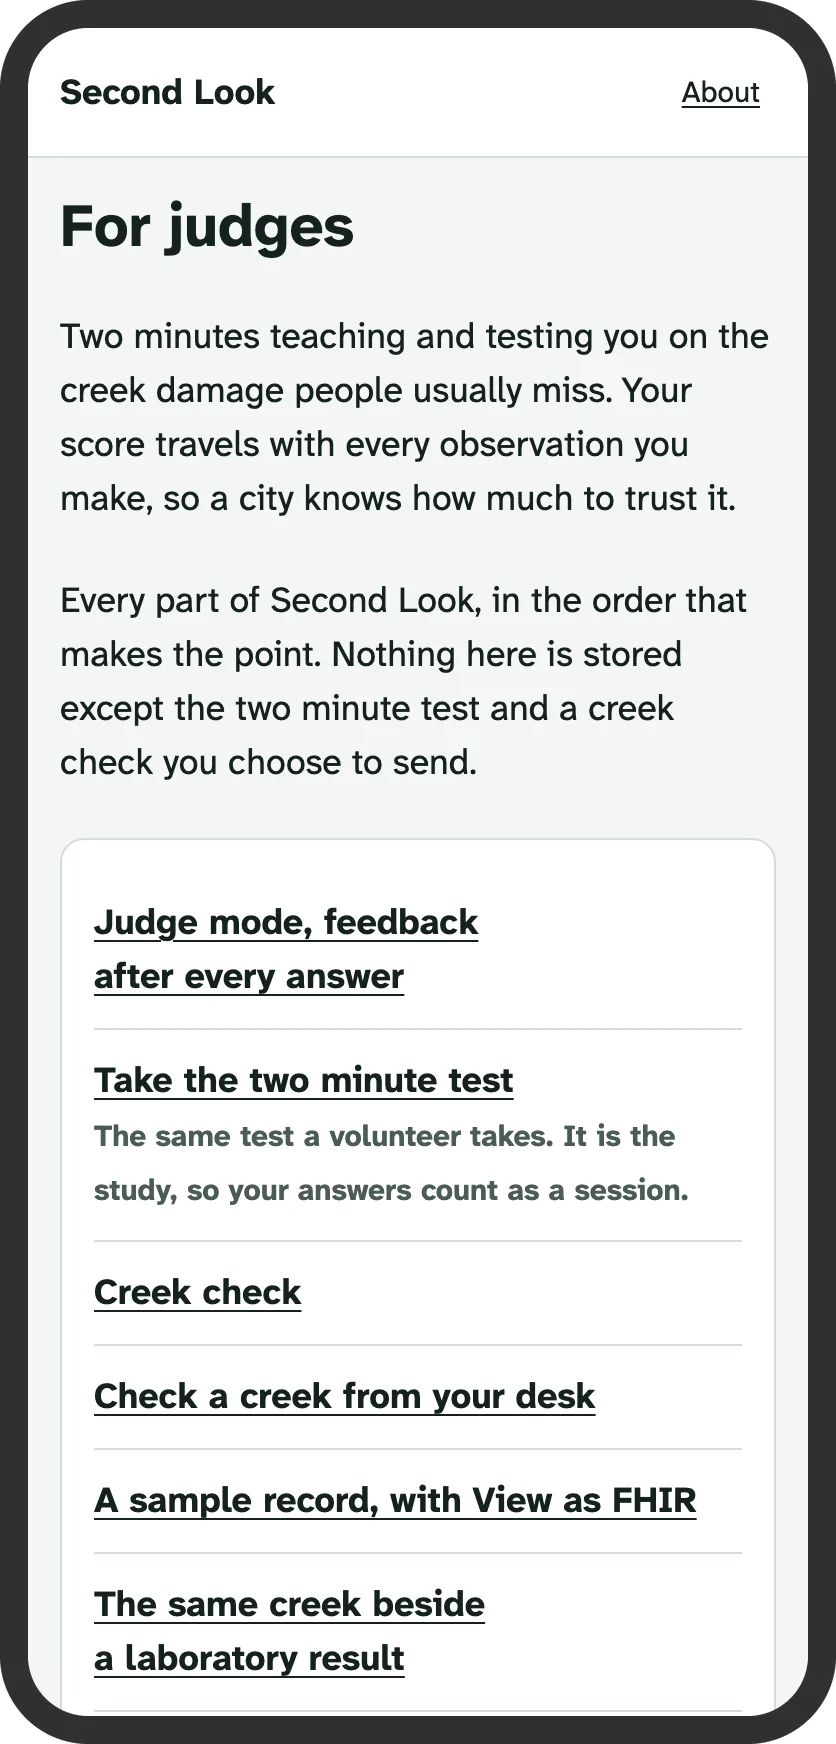
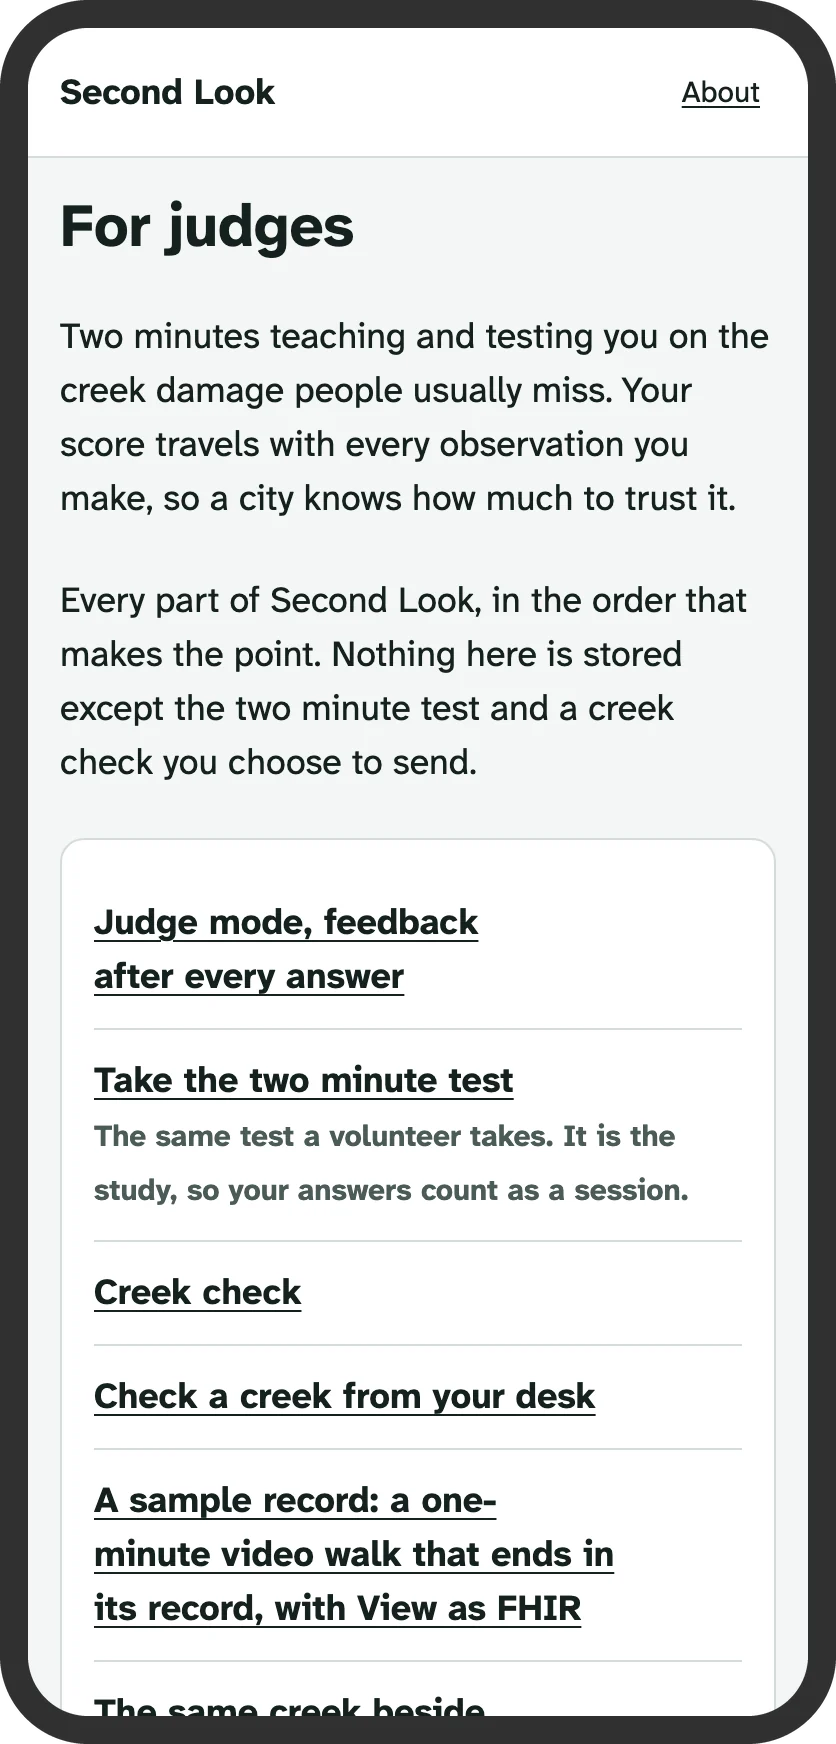
Gallery: the warm-up, accessibility, offline and shared score screens, and judge mode named demo for its route

Changed region(s): [[0.0933, 0.836, 0.8397, 0.9908]]

diff --git a/scripts/tests/test_gallery.py b/scripts/tests/test_gallery.py
@@ -215,7 +215,7 @@ def test_the_credit_must_be_the_manifest_credit(gallery: Path) -> None:
     assert says(problems, "social-preview: its credit does not name")
 
 
-@pytest.mark.parametrize("dropped", ["judge-mode", "check-location", "check-question"])
+@pytest.mark.parametrize("dropped", ["demo", "check-location", "check-question"])
 def test_a_dropped_screen_fails(gallery: Path, dropped: str) -> None:
     def drop(doc: dict[str, Any]) -> None:
         doc["images"] = [r for r in doc["images"] if r["name"] != dropped]

diff --git a/scripts/make_gallery.py b/scripts/make_gallery.py
@@ -488,7 +488,11 @@ REQUIRED_SCREENS = frozenset(
         "lesson-card",
         "test-item",
         "score",
-        "judge-mode",
+        "demo",
+        "warmup",
+        "accessibility",
+        "offline",
+        "share",
         "judges",
         "walks",
         "walk",

diff --git a/README.md b/README.md
@@ -68,7 +68,7 @@ No recruited study. The two-minute test stays live as the volunteer's own calibr
 
 ## Gallery
 
-<!--v:results/screens.json#/screen_count-->26<!--/v--> phone screens at <!--v:results/screens.json#/phone/css_width-->390<!--/v--> by <!--v:results/screens.json#/phone/css_height-->844<!--/v-->, in one drawn frame. <!--v:results/screens.json#/live_count-->20<!--/v--> come from the live site. The <!--v:results/screens.json#/local_mock_count-->6<!--/v--> marked (mock) come from a local build with the mock API: the test flow, so no screenshot joined the study, and the sample record, which the live site does not have yet. `make screens` makes them all again, and `results/screens.json` lists each one with its route, bytes and source. The photos in them belong to their authors and are credited on /credits.
+<!--v:results/screens.json#/screen_count-->30<!--/v--> phone screens at <!--v:results/screens.json#/phone/css_width-->390<!--/v--> by <!--v:results/screens.json#/phone/css_height-->844<!--/v-->, in one drawn frame. <!--v:results/screens.json#/live_count-->23<!--/v--> come from the live site. The <!--v:results/screens.json#/local_mock_count-->7<!--/v--> marked (mock) come from a local build with the mock API: the test flow, so no screenshot joined the study, and the sample record, which the live site does not have yet. `make screens` makes them all again, and `results/screens.json` lists each one with its route, bytes and source. The photos in them belong to their authors and are credited on /credits.
 
 <table>
 <tr>
@@ -80,7 +80,7 @@ No recruited study. The two-minute test stays live as the volunteer's own calibr
 <tr>
 <td align="center"><img src="docs/screens/test-item.webp" width="200" alt="A test item: one creek photo, the question, and the buttons Yes, No and Can't tell."><br>A test item<br><code>/t</code> (mock)</td>
 <td align="center"><img src="docs/screens/score.webp" width="200" alt="The score screen: the total and a score for each of the four features."><br>The score<br><code>/t</code> (mock)</td>
-<td align="center"><img src="docs/screens/judge-mode.webp" width="200" alt="Judge mode today: it opens on Sep 28, when the data locks."><br>Judge mode today<br><code>/demo</code></td>
+<td align="center"><img src="docs/screens/demo.webp" width="200" alt="Judge mode today: it opens on Sep 28, when the data locks."><br>Judge mode today<br><code>/demo</code></td>
 <td align="center"><img src="docs/screens/judges.webp" width="200" alt="The page for judges: every part of Second Look, in order."><br>For judges<br><code>/judges</code></td>
 </tr>
 <tr>
@@ -110,6 +110,12 @@ No recruited study. The two-minute test stays live as the volunteer's own calibr
 <tr>
 <td align="center"><img src="docs/screens/about.webp" width="200" alt="About: what Second Look is and who made it."><br>About<br><code>/about</code></td>
 <td align="center"><img src="docs/screens/poster.webp" width="200" alt="The poster to print and put up by a creek, with its QR code."><br>Poster<br><code>/poster</code></td>
+</tr>
+<tr>
+<td align="center"><img src="docs/screens/warmup.webp" width="200" alt="The warm-up: which creek is healthier, asked once before the test and answered at the end."><br>The warm-up<br><code>/t</code> (mock)</td>
+<td align="center"><img src="docs/screens/accessibility.webp" width="200" alt="Accessibility: what we aim for and how each part is checked."><br>Accessibility<br><code>/accessibility</code></td>
+<td align="center"><img src="docs/screens/offline.webp" width="200" alt="The page a phone shows when it has no signal: what still works."><br>Offline<br><code>/offline</code></td>
+<td align="center"><img src="docs/screens/share.webp" width="200" alt="The page a shared score opens: the score card and a link to take the test."><br>A shared score<br><code>/share/12</code></td>
 </tr>
 </table>
 
